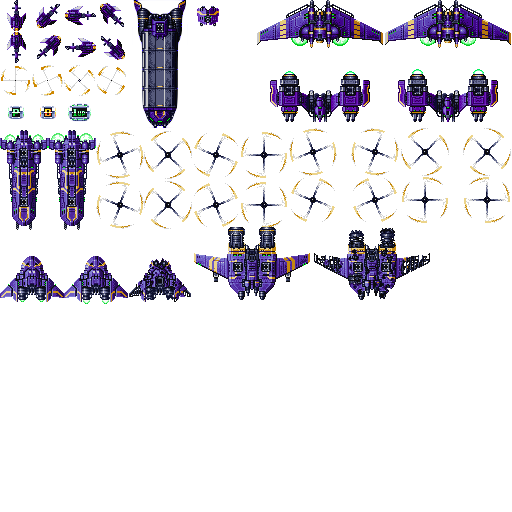
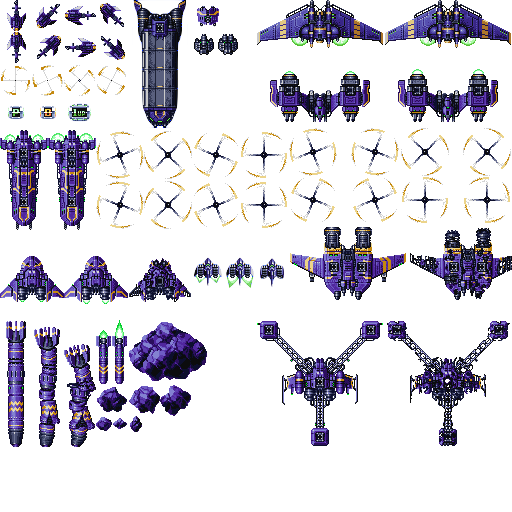
update

diff --git a/src/enemy/EnemyData.js b/src/enemy/EnemyData.js
@@ -221,6 +221,75 @@ pb3.enemyData['BigWing'] = {
 };
 
 /*
+ *  飛空挺「モーンブレイド」
+ */
+pb3.enemyData['MournBlade'] = {
+    //使用弾幕パターン
+    bulletPattern: "MournBlade",
+
+    //当り判定サイズ
+    width:  128,
+    height: 20,
+
+    //耐久力
+    def: 800,
+
+    //得点
+    point: 3000,
+
+    //表示レイヤー番号
+    layer: LAYER_OBJECT,
+
+    //敵タイプ
+    type: ENEMY_MIDDLE,
+
+    //爆発タイプ
+    explodeType: EXPLODE_MIDDLE,
+
+    //機体用テクスチャ情報
+    texName: "tex1",
+    texWidth: 48,
+    texHeight: 104,
+    texIndex: 0,
+
+    setup: function() {
+        this.index = this.texIndex;
+        this.phase = 0;
+        this.setFrameTrim(0, 128, 96, 104);
+
+        this.roter = tm.display.Sprite("tex1", 114, 48).addChildTo(this);
+        this.roter.setFrameTrim(96, 128, 192, 104);
+        this.roter.setFrameIndex(0);
+        this.roter.index = 0;
+
+        //行動設定
+        if (this.x < 0) {
+            this.px = 1;
+            this.tweener.moveBy( GS_W*0.6, 0, 3000, "easeOutCubic").call(function(){this.phase++;}.bind(this));
+        } else {
+            this.px = -1;
+            this.tweener.moveBy(-GS_W*0.6, 0, 3000, "easeOutCubic").call(function(){this.phase++;}.bind(this));
+        }
+    },
+
+    algorithm: function() {
+        if (this.time % 4 == 0) {
+            this.roter.index = (this.roter.index+1)%4;
+            this.roter.setFrameIndex(this.roter.index);
+        }
+        if (this.time % 10 == 0) {
+            this.index = (this.index+1)%2;
+            this.body.setFrameIndex(this.index);
+        }
+
+        if (this.phase == 1) {
+            this.y--;
+            this.x+=this.px;
+        }
+    },
+};
+
+/*
  *  中型輸送キャリア「トイボックス」
  */
 pb3.enemyData['ToyBox'] = {
@@ -272,3 +341,22 @@ pb3.enemyData['ToyBox'] = {
 }
 
 })();
+
+/*
+
+１面中ボス  装甲輸送列車「トールハンマー」
+１面ボス    局地制圧型巨大戦車「ゴリアテ」
+
+２面中ボス  
+２面ボス    浮揚空母「ストームブリンガー」
+
+３面中ボス  
+３面ボス    大型超高高度爆撃機「ガルーダ」
+
+４面中ボス
+４面ボス
+
+５面中ボス
+５面ボス
+
+*/

diff --git a/src/bullet/BulletPattern.js b/src/bullet/BulletPattern.js
@@ -26,9 +26,9 @@ var RM = function(action) { return $.bullet(action, {type: "RM"}); };
 //通常弾（青）
 var BM = function(action) { return $.bullet(action, {type: "BM"}); };
 //大弾（赤）
-var LR = function(action) { return $.bullet(action, {type: "LR"}); };
+var RL = function(action) { return $.bullet(action, {type: "RL"}); };
 //大弾（青）
-var LB = function(action) { return $.bullet(action, {type: "LB"}); };
+var BL = function(action) { return $.bullet(action, {type: "BL"}); };
 
 //楕円弾（赤）(RedEllipsean)
 var RE = function(action) { return $.bullet(action, {type: "RE"}); };
@@ -163,7 +163,7 @@ pb3.bulletPattern["MudDauber"] = new bulletml.Root({
         $.wait(90),
         $.repeat(999, [
             $.repeat(5, [
-                $absoluteNway(3, 200, 160, $spd(2), RM),
+                $fireBS(3),
                 $interval(10),
             ]),
             $interval(120),
@@ -175,7 +175,7 @@ pb3.bulletPattern["MudDauber"] = new bulletml.Root({
             $.repeat(3, [
                 $.fire($.direction(180, "absolute"), $spd(3), BM, $.offsetX(-32)),
                 $.fire($.direction(180, "absolute"), $spd(3), BM, $.offsetX( 32)),
-                $interval(20),
+                $interval(15),
             ]),
             $interval(60),
         ]),

diff --git a/src/bullet/Bullet.js b/src/bullet/Bullet.js
@@ -174,7 +174,6 @@ tm.define("pb3.ShotBullet", {
     },
 
     vanish: function() {
-//        pb3.Effect.EffectBase("shotimpact", 16, 16, 2, 0, 7).addChildTo(this.parentScene).setPosition(this.x, this.y);
         pb3.Effect.ShotImpact().addChildTo(this.parentScene).setPosition(this.x, this.y);
         pb3.Effect.enterDebrisSmall(this.parentScene, this.x, this.y, 1);
         this.removeChildren();

diff --git a/src/PlanetBuster3.js b/src/PlanetBuster3.js
@@ -203,6 +203,7 @@ tm.display.Sprite.prototype.setFrameIndex = function(index, width, height) {
     return this;
 }
 
+//トリミング開始位置設定
 tm.display.Sprite.prototype.setFrameTrim = function(x, y, width, height) {
     this.frameTrimX = x || 0;
     this.frameTrimY = y || 0;
